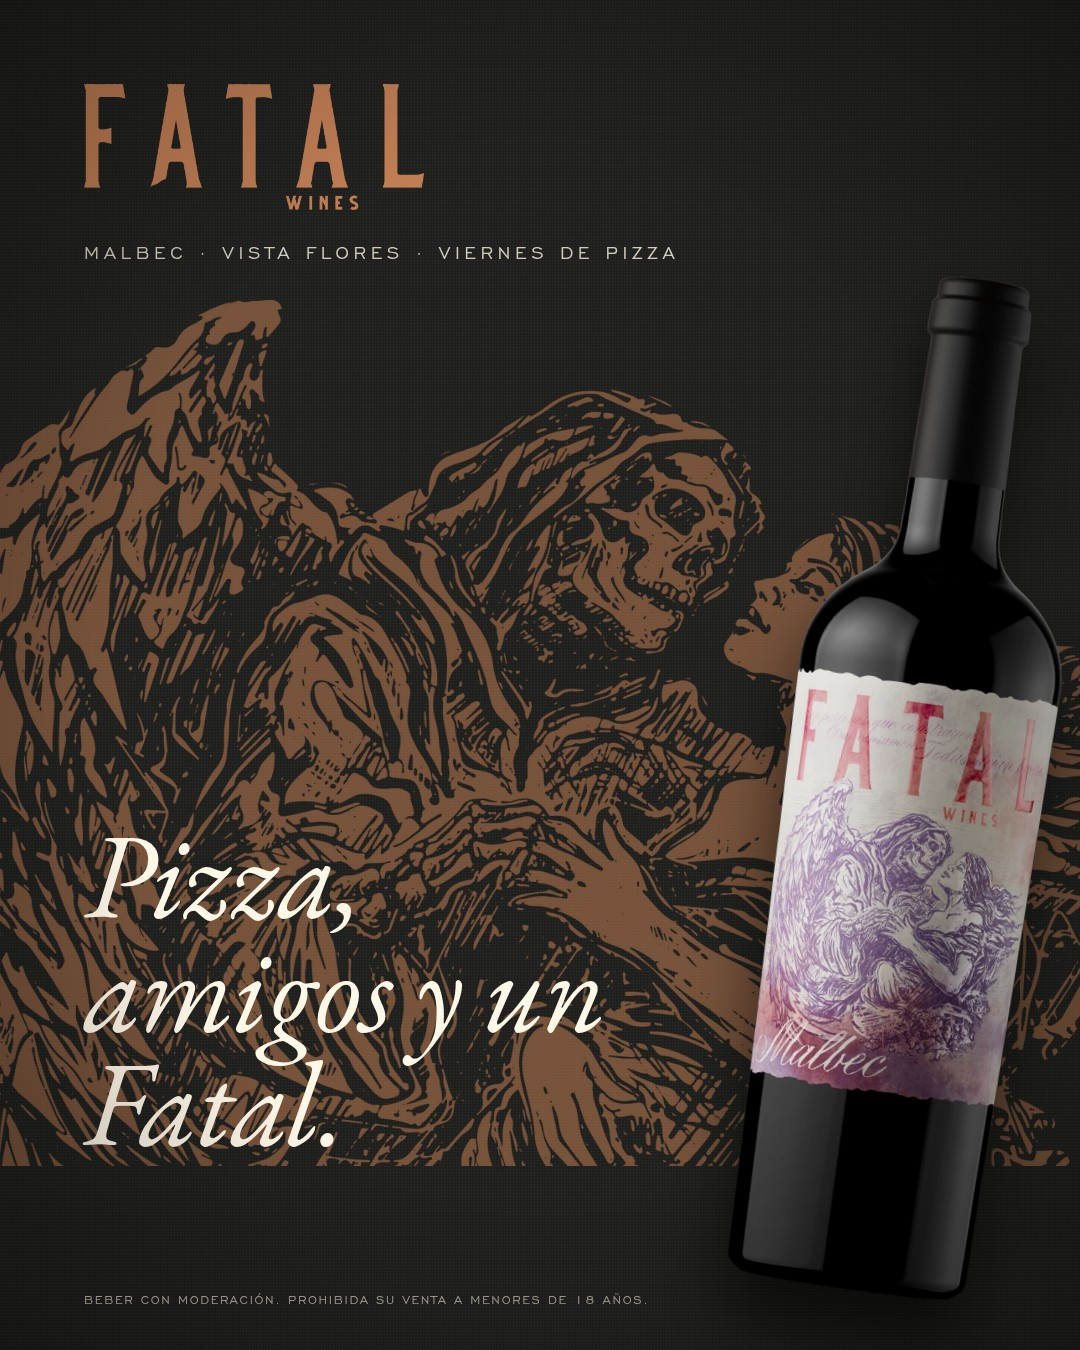
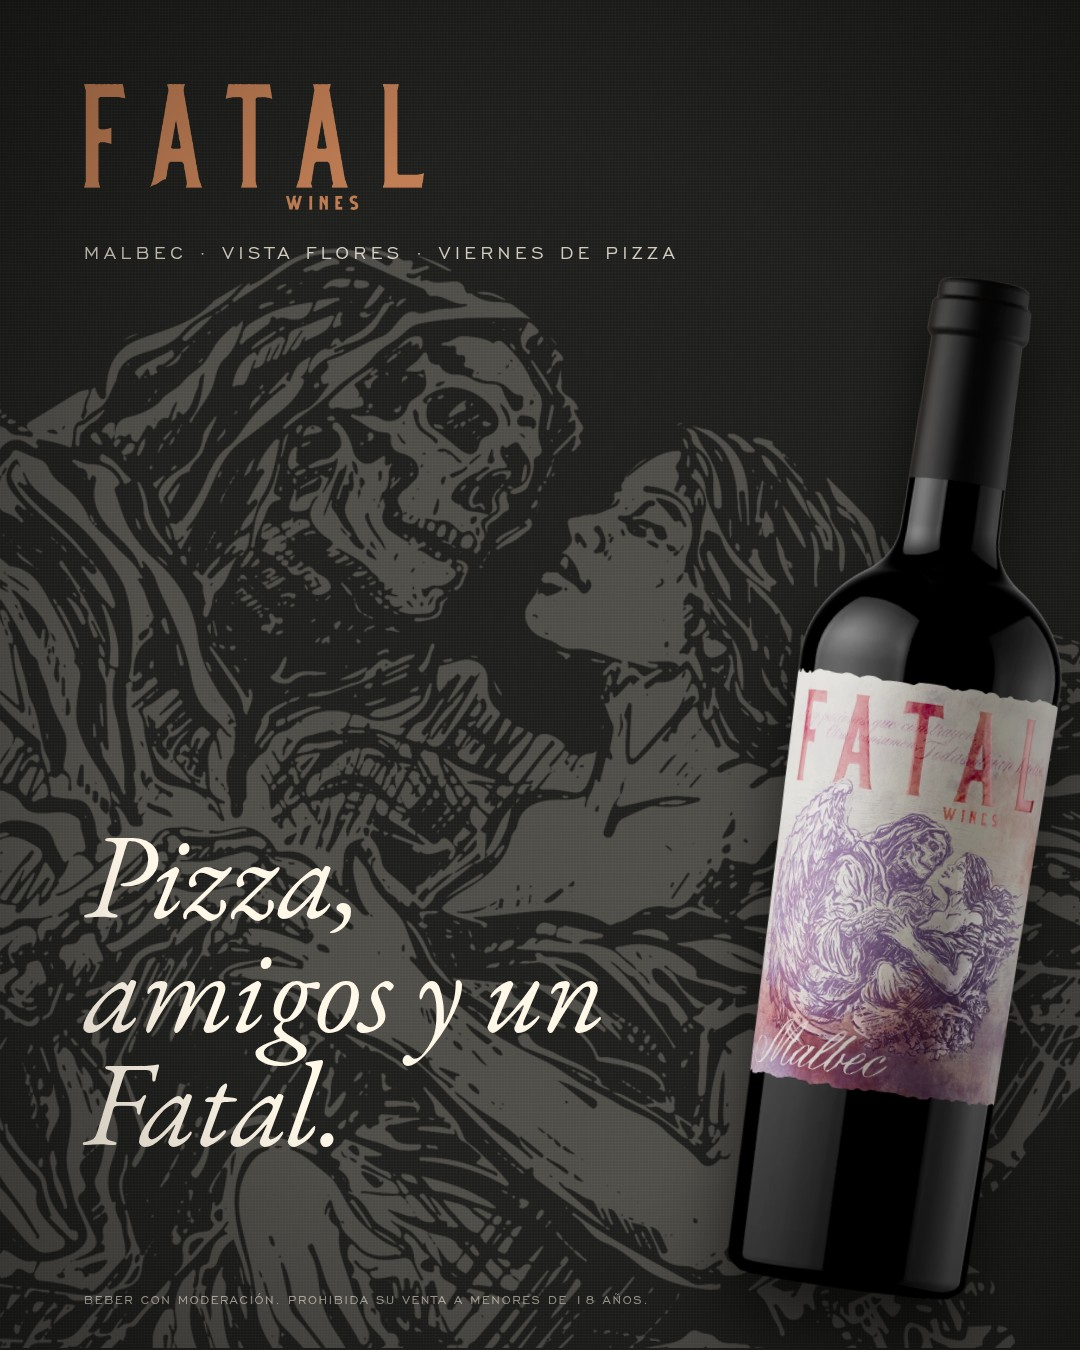
Tesón: variantes de Fatal (encuadres del ángel, espejado, botella a la izquierda)
Claude-Session: https://claude.ai/code/session_01WVF3yVjWa2YLnmgYLZbUr9

diff --git a/teson/contenido/build_posts.py b/teson/contenido/build_posts.py
@@ -290,7 +290,8 @@ def T_tag(s):
 
 def T_fatal(s):
     """Fatal, la línea joven, en la paleta de Tesón: fondo oscuro con textura, el ángel de la etiqueta en grande
-    (cobre o crema), botella inclinada, titular grande en itálica y un anillo de cobre con el dato."""
+    (cobre o crema), botella inclinada, titular grande en itálica. Variantes: sb, mb, duo. Encuadres del ángel:
+    full, face (las caras), wing (el ala). flip espeja el ángel; layout "left" pone la botella a la izquierda."""
     v = s.get("variant", "sb")
     if v == "sb":
         bgc, angel_c, angel_op = NOCHE, CREMA, .30
@@ -302,24 +303,31 @@ def T_fatal(s):
         bgc, angel_c, angel_op = CARBON, "#D2A283", .42
         bottles = s.get("bottles") or [{"img": "fatal-malbec.webp", "tilt": -6, "h": 840, "right": 330, "bottom": 70},
                                        {"img": "fatal-sauvignon.webp", "tilt": 6, "h": 840, "right": 40, "bottom": 70}]
+    if s.get("angel_c"):
+        angel_c = {"crema": CREMA, "cobre": COBRE, "claro": "#D2A283"}[s["angel_c"]]
     ink = CREMA
+    crops = {"full": (1340, -140, 300), "face": (2400, -1250, -60), "wing": (2000, -320, 140), "embrace": (1900, -700, 120)}
+    aw, ax, ay = crops.get(s.get("crop", "full"), crops["full"])
+    ax, ay = s.get("angel_x", ax), s.get("angel_y", ay)
     angel_img = {CREMA: "fatal-angel-crema.png", COBRE: "fatal-angel-cobre.png"}.get(angel_c, "fatal-angel-claro.png")
-    angel = (f'<img src="{img(angel_img)}" alt="" style="position:absolute;left:{s.get("angel_x",-140)}px;top:{s.get("angel_y",300)}px;width:1340px;opacity:{s.get("angel_op",angel_op)}">')
-    bots = "".join(f'<img src="{img(b["img"])}" alt="" style="position:absolute;right:{b["right"]}px;bottom:{b["bottom"]}px;height:{b["h"]}px;width:auto;transform:rotate({b["tilt"]}deg);transform-origin:50% 90%;filter:drop-shadow(0 44px 34px rgba(0,0,0,.6))">' for b in bottles)
-    ring = ""
-    if s.get("ring"):
-        ring = (f'<div class="abs" style="left:{s.get("sticker_x",84)}px;top:{s.get("sticker_y",300)}px;width:210px;height:210px;border-radius:50%;border:2px solid {COBRE};transform:rotate(-10deg);display:flex;align-items:center;justify-content:center;text-align:center;padding:28px">'
-                f'<div class="abs" style="inset:10px;border-radius:50%;border:1px solid rgba(193,126,85,.5)"></div>'
-                f'<div class="sc" style="font-size:19px;line-height:1.5;color:{COBRE};letter-spacing:.2em">{html.escape(s["sticker"])}</div></div>')
+    flip = "transform:scaleX(-1);" if s.get("flip") else ""
+    angel = f'<img src="{img(angel_img)}" alt="" style="position:absolute;left:{ax}px;top:{ay}px;width:{aw}px;opacity:{s.get("angel_op",angel_op)};{flip}">'
+    left_layout = s.get("layout") == "left"
+    def pos(b):
+        if left_layout:
+            return f'left:{b.get("left", b["right"])}px'
+        return f'right:{b["right"]}px'
+    bots = "".join(f'<img src="{img(b["img"])}" alt="" style="position:absolute;{pos(b)};bottom:{b["bottom"]}px;height:{b["h"]}px;width:auto;transform:rotate({-b["tilt"] if left_layout else b["tilt"]}deg);transform-origin:50% 90%;filter:drop-shadow(0 44px 34px rgba(0,0,0,.6))">' for b in bottles)
     lines = "".join(f'<div class="sc" style="font-size:20px;color:rgba(255,247,232,.85)">{html.escape(l)}</div>' for l in s.get("lines", []))
+    hl_side = f'right:84px;text-align:right' if left_layout else 'left:84px'
     parts = [f'<div class="abs" style="inset:0;background:{bgc}"></div>',
              '<div class="abs" style="inset:0;background:url(noise.svg);opacity:.14;mix-blend-mode:overlay"></div>',
              '<div class="abs" style="inset:0;background:repeating-linear-gradient(0deg,rgba(255,255,255,.025) 0 1px,transparent 1px 3px),repeating-linear-gradient(90deg,rgba(255,255,255,.02) 0 1px,transparent 1px 3px)"></div>',
-             angel, bots, ring,
+             angel, bots,
              f'<img src="{img("fatal-logo-cobre.png")}" alt="" style="position:absolute;left:84px;top:84px;width:340px">',
              f'<div class="abs sc" style="left:84px;top:236px;color:rgba(255,247,232,.8)">{html.escape(s.get("sc",""))}</div>',
-             f'<div class="abs" style="left:84px;bottom:{s.get("hl_bottom",190)}px;max-width:{s.get("hl_w",600)}px;font-style:italic;font-size:{s.get("hl_size",120)}px;line-height:.95;color:{ink};letter-spacing:-.01em">{s["it"]}</div>',
-             (f'<div class="abs" style="left:84px;bottom:110px;display:flex;flex-direction:column;gap:6px">{lines}</div>' if lines else ""),
+             f'<div class="abs" style="{hl_side};bottom:{s.get("hl_bottom",190)}px;max-width:{s.get("hl_w",600)}px;font-style:italic;font-size:{s.get("hl_size",120)}px;line-height:.95;color:{ink};letter-spacing:-.01em">{s["it"]}</div>',
+             (f'<div class="abs" style="{hl_side};bottom:110px;display:flex;flex-direction:column;gap:6px">{lines}</div>' if lines else ""),
              '<div class="abs" style="inset:0;background:radial-gradient(ellipse at 50% 50%,rgba(0,0,0,0) 55%,rgba(0,0,0,.35) 100%);pointer-events:none"></div>',
              legal(s)]
     return page("".join(parts))

diff --git a/teson/estilo-instagram.md b/teson/estilo-instagram.md
@@ -21,7 +21,7 @@ La cuenta ya tenía tres fondos con textura (lienzo carbón, papel, arpillera) y
 - **Arpillera** (`assets/tex/arpillera.jpg`, generada a partir de la del post de noviembre 2024): fondo de las piezas de regalo, caja y comunidad. Con ella van la etiqueta colgante de papel con hilo de cobre (empresas, Día de la Mujer, Día del Padre), las cinco botellas de Navidad y el sello en tinta (Gracias, Tres años). Texto en tinta, acentos en cobre hondo.
 - **Azulejo sobre noche** (patrón `azulejo.svg`, cuadrifolio y estrellas en crema al 24%): la tradición murciana de la etiqueta, para los cierres de marca y el Día del Vino.
 - **Papel rasgado** también sin foto, sobre noche o carbón, para condiciones y fechas.
-- **Fatal, la línea joven,** se distingue sin salirse de la paleta: fondo noche (Sauvignon Blanc), tinta (Malbec) o carbón (los dos) con la misma textura de lienzo; el ángel de la etiqueta en grande, recortado por los bordes, en cobre o en crema y ghosteado; la botella inclinada; el titular grande en itálica; un anillo fino de cobre, girado, con el dato ("Bien frío · 8 a 10 °C", "Con empanadas y pizza"); y el logotipo FATAL en cobre. Nada de bloques de color ni stickers de colores: lo disruptivo lo ponen la figura, la inclinación y el tamaño del titular.
+- **Fatal, la línea joven,** se distingue sin salirse de la paleta: fondo noche (Sauvignon Blanc), tinta (Malbec) o carbón (los dos) con la misma textura de lienzo; el ángel de la etiqueta en grande, recortado por los bordes, en cobre o en crema y ghosteado; la botella inclinada; el titular grande en itálica; un anillo fino de cobre, girado, con el dato ("Bien frío · 8 a 10 °C", "Con empanadas y pizza"); y el logotipo FATAL en cobre. Nada de bloques de color ni stickers de colores: lo disruptivo lo ponen la figura, la inclinación y el tamaño del titular. Para que las piezas no se repitan, el ángel cambia de encuadre (`crop`: `full`, `face` las caras, `wing` el ala, `embrace` el abrazo), de color (`angel_c`: cobre, crema, claro) y de lado (`flip`, y `layout: left` con la botella a la izquierda y el titular a la derecha).
 
 ## Cómo lo aplican los templates
 
